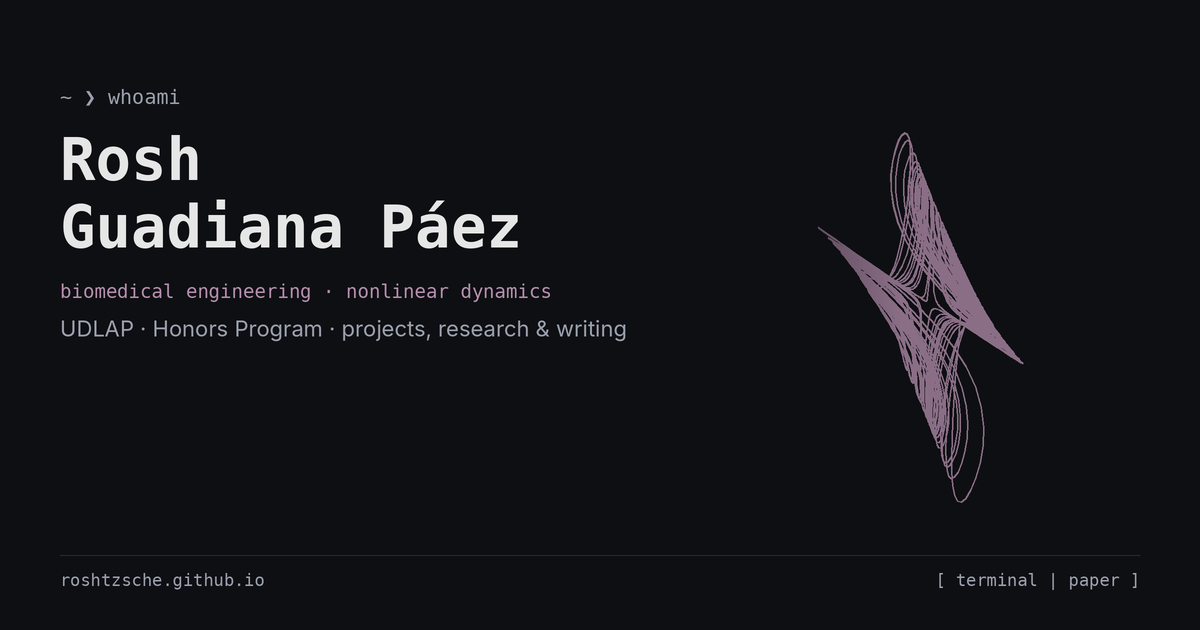
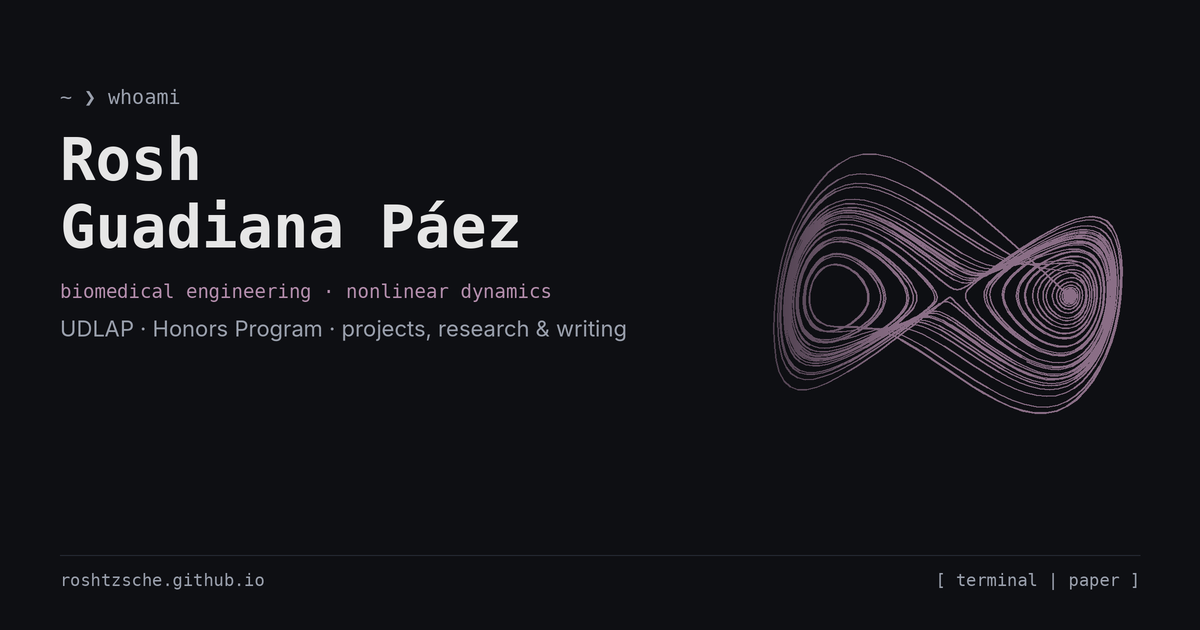
Open-butterfly (PCA) view for static attractors: share card, QR, hero at rest; timeline dates for Space Apps and FIRA

Changed region(s): [[0.6475, 0.2111, 0.9558, 0.754]]

diff --git a/src/data/talks.ts b/src/data/talks.ts
@@ -24,7 +24,7 @@ export const items: Item[] = [
   // ---- 2024 ----
   { date: '2025-07', when: summer, kind: 'workshop', title: { es: 'Taller de ADN y biología estructural', en: 'DNA and structural biology workshop' }, where: { es: 'Verano STEM UDLAP', en: 'Verano STEM UDLAP' } },
   { date: '2024-08', kind: 'milestone', title: { es: 'Empiezo Ingeniería Biomédica en la UDLAP', en: 'I start Biomedical Engineering at UDLAP' }, where: { es: 'Equipo Representativo STEM', en: 'STEM Representative Team' } },
-  { date: '2024-10', kind: 'hackathon', title: { es: 'Mi primer NASA Space Apps Challenge — ExoSky', en: 'My first NASA Space Apps Challenge — ExoSky' }, where: { es: 'Exoplanetas y mecánica celeste', en: 'Exoplanets and celestial mechanics' } },
+  { date: '2024-10-05', when: { es: '5–6 oct', en: 'oct 5–6' }, kind: 'hackathon', title: { es: 'Mi primer NASA Space Apps Challenge — ExoSky', en: 'My first NASA Space Apps Challenge — ExoSky' }, where: { es: 'Exoplanetas y mecánica celeste', en: 'Exoplanets and celestial mechanics' } },
   { date: '2024-11-09', kind: 'workshop', title: { es: 'Taller de divulgación', en: 'Outreach workshop' }, where: { es: 'Noche de las Estrellas', en: 'Noche de las Estrellas' } },
   { date: '2024-11', when: { es: 'nov–dic', en: 'nov–dec' }, kind: 'hackathon', title: { es: 'Swift Student Challenge', en: 'Swift Student Challenge' }, where: { es: 'Apps en Swift', en: 'Swift apps' } },
   // ---- 2025 ----
@@ -32,18 +32,18 @@ export const items: Item[] = [
   { date: '2025-06-25', when: { es: '25–27 jun', en: 'jun 25–27' }, kind: 'staff', title: { es: 'Staff — 1.ª Conferencia Mexicana de Robots Inteligentes', en: 'Staff — 1st Mexican Conference on Intelligent Robots' }, where: { es: 'MEXCIR, Ciudad de México', en: 'MEXCIR, Mexico City' } },
   { date: '2026-07', when: summer, kind: 'workshop', title: { es: 'Taller de computación cuántica', en: 'Quantum computing workshop' }, where: { es: 'Verano STEM UDLAP', en: 'Verano STEM UDLAP' } },
   { date: '2025-11-20', kind: 'award', title: { es: '2.º lugar nacional — Ojo de Halcón', en: '2nd place national — Ojo de Halcón' }, where: { es: 'Swift Changemakers Hackathon (Enactus)', en: 'Swift Changemakers Hackathon (Enactus)' }, href: 'https://github.com/RoshTzsche/ojo_de_halcon' },
-  { date: '2025-10', kind: 'hackathon', title: { es: 'NASA Space Apps — Asteroid-DB', en: 'NASA Space Apps — Asteroid-DB' }, where: { es: 'Reto Meteor Madness', en: 'Meteor Madness challenge' }, href: 'https://github.com/RoshTzsche/asteroid_db' },
+  { date: '2025-10-04', when: { es: '4–5 oct', en: 'oct 4–5' }, kind: 'hackathon', title: { es: 'NASA Space Apps — Asteroid-DB', en: 'NASA Space Apps — Asteroid-DB' }, where: { es: 'Reto Meteor Madness', en: 'Meteor Madness challenge' }, href: 'https://github.com/RoshTzsche/asteroid_db' },
   { date: '2025-11-03', when: { es: '3–7 nov', en: 'nov 3–7' }, kind: 'staff', title: { es: 'Staff — 16.ª Conferencia Internacional de Micro Vehículos Aéreos', en: 'Staff — 16th International Micro Air Vehicle Conference' }, where: { es: 'IMAV, San Andrés Cholula', en: 'IMAV, San Andrés Cholula' } },
   { date: '2025-11-29', kind: 'workshop', title: { es: 'Taller de divulgación', en: 'Outreach workshop' }, where: { es: 'Noche de las Estrellas', en: 'Noche de las Estrellas' } },
   // ---- 2026 ----
   { date: '2026-05-12', kind: 'talk', title: { es: 'La forma de la consciencia: reconstrucción topológica de dinámica neural con el teorema de Takens', en: 'The shape of consciousness: topological reconstruction of neural dynamics with Takens’ theorem' }, where: { es: 'MUTVI 4', en: 'MUTVI 4' }, href: 'https://www.youtube.com/watch?v=H2ynSl1nyjo', hrefLabel: { es: 'ver video', en: 'watch video' } },
   { date: '2026-06', kind: 'class', title: { es: 'Lógica, conjuntos y Gödel — ciclo de 7 clases', en: 'Logic, sets and Gödel — 7-lecture series' }, where: { es: 'Para compañeros de la UDLAP', en: 'For fellow UDLAP students' }, href: 'https://github.com/RoshTzsche/logic_lectures', hrefLabel: { es: 'notas', en: 'notes' } },
   { date: '2026-09', kind: 'competition', title: { es: 'MOVA — silla de ruedas por gestos faciales', en: 'MOVA — facial-gesture wheelchair' }, where: { es: 'Sillódromo 2026, INAOE', en: 'Sillódromo 2026, INAOE' }, href: 'https://github.com/RoshTzsche/mova' },
-  { date: '2026-11', kind: 'award', title: { es: 'Mayor Innovación Tecnológica — MarsWalker', en: 'Greatest Technological Innovation — MarsWalker' }, where: { es: 'NASA Space Apps Challenge, Puebla', en: 'NASA Space Apps Challenge, Puebla' }, href: 'https://github.com/RoshTzsche/mars_walker' },
+  { date: '2026-10-19', kind: 'competition', title: { es: 'Fruticebada — capitán del equipo', en: 'Fruticebada — team captain' }, where: { es: 'FIRA AgroCebada', en: 'FIRA AgroCebada' }, href: 'https://frutiloopsfira.onrender.com', hrefLabel: { es: 'demo', en: 'demo' } },
+  { date: '2026-11-14', when: { es: '14–15 nov', en: 'nov 14–15' }, kind: 'award', title: { es: 'Mayor Innovación Tecnológica — MarsWalker', en: 'Greatest Technological Innovation — MarsWalker' }, where: { es: 'NASA Space Apps Challenge, sede UDLAP', en: 'NASA Space Apps Challenge, UDLAP venue' }, href: 'https://github.com/RoshTzsche/mars_walker' },
   { date: '2026-11', kind: 'award', title: { es: '2.º lugar — Gota Poblana', en: '2nd place — Gota Poblana' }, where: { es: 'Hackatón Puebla, Instituto Tecnológico de Puebla', en: 'Hackatón Puebla, Instituto Tecnológico de Puebla' }, href: 'https://github.com/RoshTzsche/gota_poblana' },
   // ---- dates to confirm ----
   { date: null, kind: 'host', title: { es: 'Maestro de ceremonias de 4 seminarios', en: 'Master of ceremonies, 4 seminars' }, where: { es: 'STEMLink Seminars 2026, UDLAP', en: 'STEMLink Seminars 2026, UDLAP' } },
-  { date: null, kind: 'competition', title: { es: 'Fruticebada — capitán del equipo', en: 'Fruticebada — team captain' }, where: { es: 'FIRA AgroCebada 2026', en: 'FIRA AgroCebada 2026' }, href: 'https://frutiloopsfira.onrender.com' },
   { date: null, kind: 'workshop', title: { es: 'Talleres de computación cuántica', en: 'Quantum computing workshops' }, where: { es: 'Digital Makerspace y FESTEM', en: 'Digital Makerspace and FESTEM' } },
   { date: null, kind: 'talk', title: { es: 'Charlas de Core ML y SwiftUI', en: 'Core ML and SwiftUI talks' }, where: { es: 'UDLAP', en: 'UDLAP' } },
   { date: null, kind: 'podcast', title: { es: 'Co-host ocasional', en: 'Occasional co-host' }, where: { es: 'STEMpire, Equipo Representativo STEM UDLAP', en: 'STEMpire, UDLAP STEM Representative Team' }, href: 'https://www.youtube.com/@stemudlap' },
